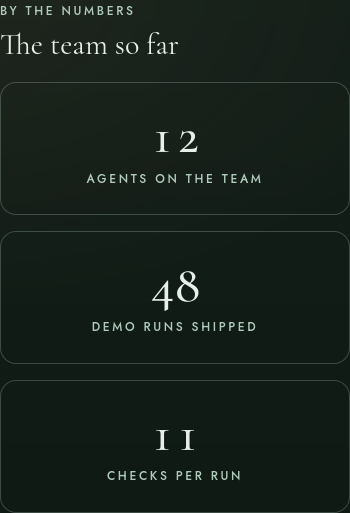
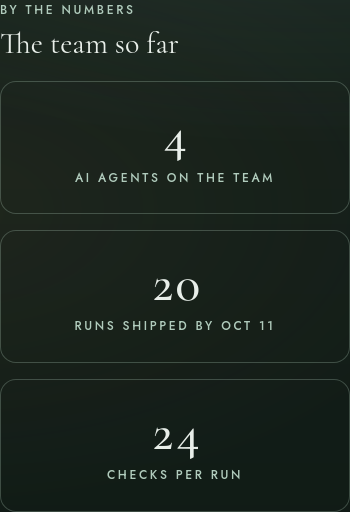
Animated counter: real, verifiable numbers (Author: Jonah Reyes) (#65)
* Animated counter: real, verifiable numbers; content rule in v2 README (Author: Jonah Reyes)

* Animated counter: label 'AI agents on the team' (Author: Jonah Reyes)

---------

diff --git a/app/lab/animated-counter/index.tsx b/app/lab/animated-counter/index.tsx
@@ -1,10 +1,13 @@
 "use client";
 import { useEffect, useRef, useState } from "react";
 
+// Real, verifiable numbers only (see scripts/v2/README.md, "Feature content"):
+// 4 = AI agents on the showcase team (Naomi, Jonah, Priya, Felix; Naomi joins design-led runs); 20 = Shipped rows in the agents-live
+// Demo history as of Oct 11, 2026; 24 = check-feature.js checks for this feature (12 at each of 1280 and 390 px).
 const STATS = [
-  { label: "Agents on the team", value: 12 },
-  { label: "Demo runs shipped", value: 48 },
-  { label: "Checks per run", value: 11 },
+  { label: "AI agents on the team", value: 4 },
+  { label: "Runs shipped by Oct 11", value: 20 },
+  { label: "Checks per run", value: 24 },
 ];
 const css = `
 .lab-counter { width: min(960px, 100%); margin: 8px auto 56px; }

diff --git a/scripts/v2/README.md b/scripts/v2/README.md
@@ -9,3 +9,9 @@
 `blueprints/<slug>.tsx.txt` are the approved reference implementations the references were captured from
 (`.txt` so the site build ignores them). Regenerate references only with a human's approval:
 build the blueprint, then `node check-feature.js <url> <slug> Refs /tmp --engine chromium --update-refs` (and `--engine webkit`).
+
+## Feature content: real numbers only
+Every number a feature shows (stats, counters, prices, dates, counts) must be real and verifiable, with a label that says
+exactly what it counts and, if it changes over time, when it was counted (e.g. "Runs shipped by Oct 11").
+Put the source in a code comment next to the value. If a number can't be verified, label it on the page as example data
+(e.g. "Example data"), never present it as fact. Blueprints and reviews follow this rule; Priya rejects a PR that breaks it.

diff --git a/app/lab/README.md b/app/lab/README.md
@@ -13,4 +13,6 @@ Only showcase v2 (feature-menu) runs write here, and only when the `demoMode` fl
   It runs before every v2 run, from the admin page, and nightly at 3 AM CT (`.github/workflows/lab-reset.yml`).
   The classic heading and image are never touched by the reset.
 
+- Feature content uses only real, verifiable numbers with honest labels (source in a code comment), or is labeled "Example data" on the page. See `scripts/v2/README.md`.
+
 Files in this folder that are not a feature folder (`README.md`, `menu.json`) are base files and are never removed.
